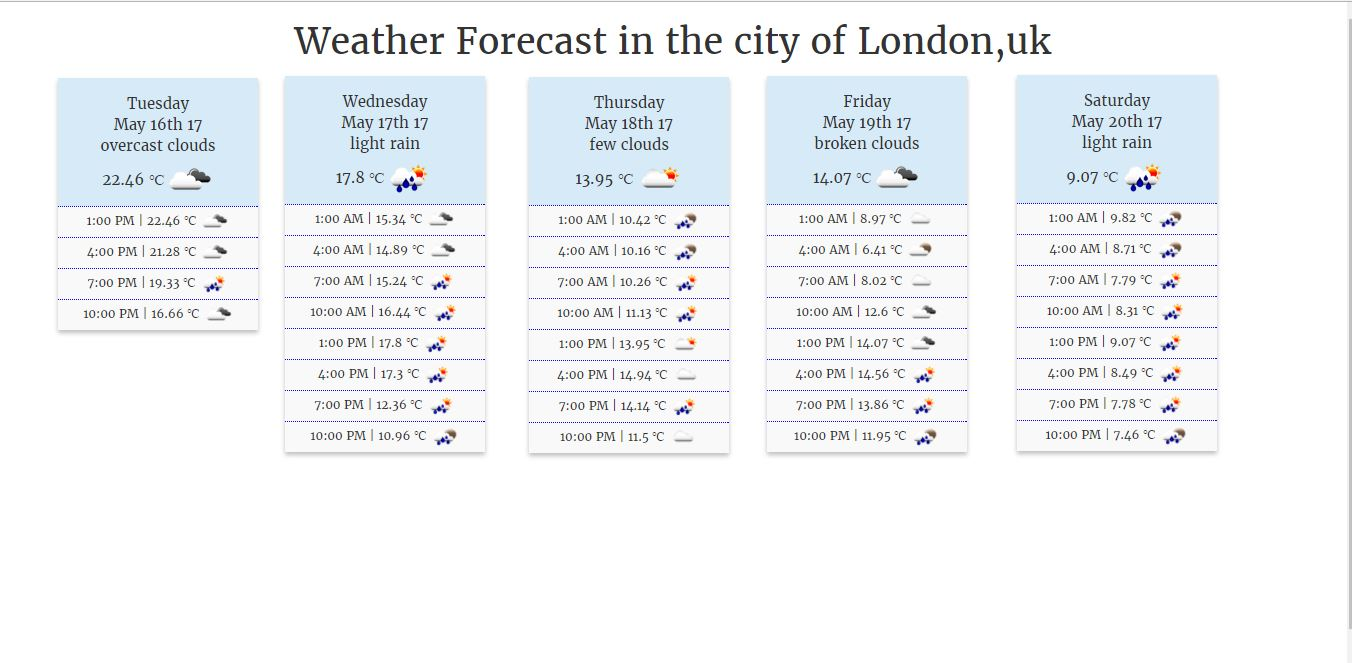
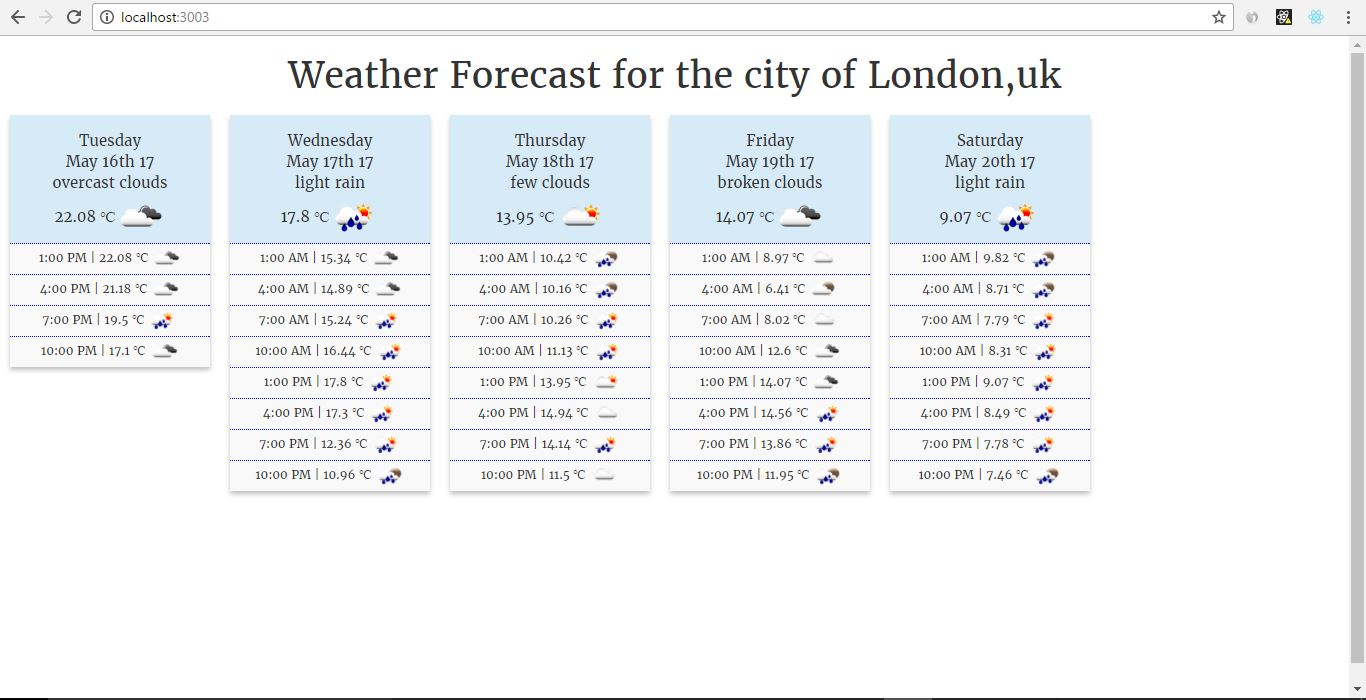
fixes

Changed region(s): [[0.0, 0.0, 0.9941, 0.724], [0.963, 0.0302, 1.0, 0.9653], [0.0, 0.9955, 1.0, 1.0]]

diff --git a/js/Board.js b/js/Board.js
@@ -112,7 +112,7 @@ var Board=React.createClass({
 		if(this.dayForecastContainer.length>0){
 
 			return(
-				
+
 				<div className="board">
 				<h1>{this.props.title} {this.props.city}</h1>
 				{
@@ -128,4 +128,4 @@ var Board=React.createClass({
 });
 
 
-React.render(<Board title="Weather Forecast in the city of "  city="London,uk" />,document.body);
+React.render(<Board title="Weather Forecast for the city of "  city="London,uk" />,document.body);

diff --git a/index.js b/index.js
@@ -15796,7 +15796,7 @@ var Board = React.createClass((_React$createClass = {
 	}
 }), _React$createClass));
 
-React.render(React.createElement(Board, { title: 'Weather Forecast in the city of ', city: 'London,uk' }), document.body);
+React.render(React.createElement(Board, { title: 'Weather Forecast for the city of ', city: 'London,uk' }), document.body);
 
 /***/ }),
 /* 118 */
